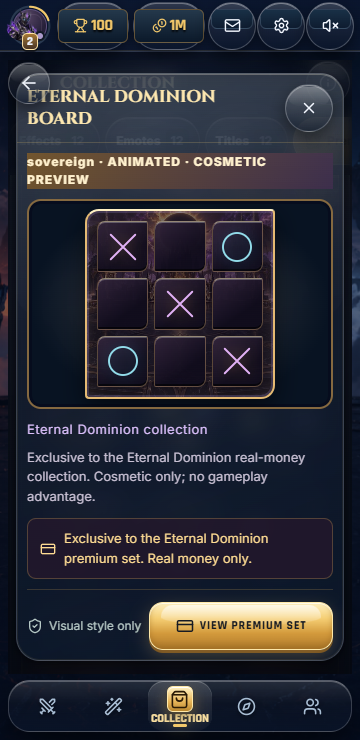
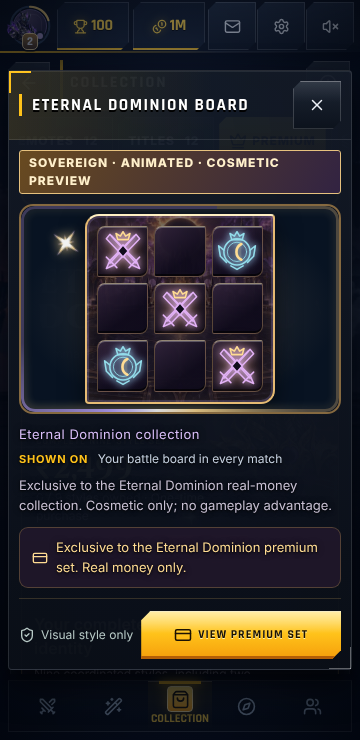
Polish Eternal Dominion premium offer
- Drop the sliding sheen from the baked Dominion motion and the banner/title
  light sweeps; keep glow, breathe and orbiting stars
- Put price and the single buy button in the hero, over the animated arena
- Replace the clipped avatar aura with a soft portrait glow
- Uppercase sovereign rarity badge; refresh Dominion screenshots

Claude-Session: https://claude.ai/code/session_01LuRdJKBZeeJak54UKqSAtq

diff --git a/src/components/CommercePanel.jsx b/src/components/CommercePanel.jsx
@@ -1,4 +1,5 @@
 "use client";
+import AnimatedCosmeticImage from "./AnimatedCosmeticImage";
 import { useEffect, useRef, useState } from "react";
 import {
   Coins,
@@ -314,12 +315,25 @@ export default function CommercePanel({
           {focus === "premium" && premiumProduct && (
             <section className={styles.sovereignOffer} aria-label="Eternal Dominion premium set" data-bundle-id="bundle-dominion">
               <div className={styles.sovereignHero}>
-                <img className={styles.sovereignBackdrop} src="/assets/collection/dominion/arena-poster.webp" alt="" />
+                <AnimatedCosmeticImage
+                  className={styles.sovereignBackdrop}
+                  cosmeticId="arena-collection-dominion"
+                  src="/assets/collection/dominion/arena-poster.webp"
+                  alt=""
+                />
                 <div className={styles.sovereignCopy}>
                   <span className={styles.sovereignEyebrow}><Crown size={14} /> SOVEREIGN · PREMIUM EXCLUSIVE</span>
                   <h3>Eternal<br />Dominion</h3>
                   <p>Command the eclipse. Wear the crown.</p>
                   <span className={styles.moneyOnly}><CreditCard size={13} /> REAL MONEY ONLY</span>
+                  {/* The offer itself sits in the hero: price and purchase without scrolling. */}
+                  <div className={styles.sovereignHeroBuy}>
+                    <div className={styles.sovereignPrice}><span>COMPLETE NINE-STYLE SET</span><strong>{price(premiumProduct)}</strong><small>{premiumComplete ? "All nine styles owned" : `${premiumOwned} / ${premiumItems.length} styles owned · One-time purchase`}</small></div>
+                    <GameButton disabled={premiumComplete || !data.checkoutEnabled || Boolean(busy)} onClick={() => payment(premiumProduct)}>
+                      {busy === premiumProduct.id ? <LoaderCircle className="spin" size={18} /> : premiumComplete ? <Check size={18} /> : !data.checkoutEnabled ? <LockKeyhole size={18} /> : <Crown size={18} />}
+                      {premiumComplete ? "Collection owned" : !data.checkoutEnabled ? "Checkout unavailable" : "Buy Eternal Dominion"}
+                    </GameButton>
+                  </div>
                 </div>
                 {premiumAvatar && <span className={styles.sovereignPortrait} aria-hidden="true"><CosmeticArt item={premiumAvatar} /></span>}
               </div>
@@ -336,13 +350,6 @@ export default function CommercePanel({
                       {ownedIds.includes(item.id) ? <Check className={styles.slotOwned} size={14} aria-label="Owned" /> : <Eye className={styles.slotOwned} size={13} aria-hidden="true" />}
                     </button>
                   ))}
-                </div>
-                <div className={styles.sovereignCheckout}>
-                  <div className={styles.sovereignPrice}><span>COMPLETE NINE-STYLE SET</span><strong>{price(premiumProduct)}</strong><small>{premiumComplete ? "All nine styles owned" : `${premiumOwned} / ${premiumItems.length} styles owned · One-time purchase`}</small></div>
-                  <GameButton disabled={premiumComplete || !data.checkoutEnabled || Boolean(busy)} onClick={() => payment(premiumProduct)}>
-                    {busy === premiumProduct.id ? <LoaderCircle className="spin" size={18} /> : premiumComplete ? <Check size={18} /> : !data.checkoutEnabled ? <LockKeyhole size={18} /> : <CreditCard size={18} />}
-                    {premiumComplete ? "Collection owned" : !data.checkoutEnabled ? "Checkout unavailable" : "Buy Eternal Dominion"}
-                  </GameButton>
                 </div>
                 <p className={styles.sovereignTerms}><ShieldCheck size={16} /><span>Cosmetics only. Equal powers and gameplay for every player. This set cannot be purchased with coins or earned through rewards.</span></p>
                 {premiumOwned > 0 && !premiumComplete && <p className={styles.small}>The full set price applies. Owned styles are retained; duplicates do not grant coins.</p>}

diff --git a/src/app/dominion-theme.css b/src/app/dominion-theme.css
@@ -118,11 +118,8 @@
   object-position: center;
 }
 .collection-theme-dominion.collection-banner-art::after {
-  background:
-    linear-gradient(90deg, #100c1cf0, #100c1c80 68%, #100c1c26),
-    linear-gradient(115deg, transparent 36%, #ffedbd22 49%, transparent 62%);
-  background-size: 100% 100%, 250% 100%;
-  animation: dominion-banner-light 8s ease-in-out infinite;
+  /* A still shade for legibility: collection light breathes, it never slides across. */
+  background: linear-gradient(90deg, #100c1cf0, #100c1c80 68%, #100c1c26);
 }
 .collection-theme-dominion .collection-banner-crest {
   border: 2px solid #e5ba73;
@@ -193,21 +190,19 @@
 @supports (background-clip: text) or (-webkit-background-clip: text) {
   .collection-theme-dominion.collection-title-art > strong,
   .collection-profile-title[data-cosmetic-theme="dominion"] {
-    background: linear-gradient(105deg, #ffdc93 20%, #fff9eb 36%, #cbb6ff 48%, #fff0c4 61%, #d7a958 80%);
-    background-size: 240% 100%;
+    /* Gilded lettering, still: no light slides across the title. */
+    background: linear-gradient(105deg, #ffdc93 10%, #fff9eb 40%, #cbb6ff 62%, #d7a958 92%);
     background-clip: text;
     -webkit-background-clip: text;
     color: transparent !important;
-    animation: dominion-title-light 7s linear infinite;
+    filter: drop-shadow(0 0 6px #ffdc9340);
   }
 }
 
 @keyframes dominion-aura { 0%,100% { opacity: .65; scale: .96; } 50% { opacity: 1; scale: 1.04; } }
 @keyframes dominion-portrait { 0%,100% { translate: 0 0; } 50% { translate: 0 -3px; } }
 @keyframes dominion-landscape { from { scale: 1.03; } to { scale: 1.09; } }
-@keyframes dominion-banner-light { 0%,25% { background-position: 0 0, 120% 0; } 90%,100% { background-position: 0 0, -100% 0; } }
 @keyframes dominion-emote-light { 0%,100% { box-shadow: inset 0 1px 0 #fff3, 0 4px 0 #05040b, 0 0 12px #bba4ff16; } 50% { box-shadow: inset 0 1px 0 #fff5, 0 4px 0 #05040b, 0 0 20px #ffdc9338; } }
-@keyframes dominion-title-light { to { background-position: -240% 0; } }
 
 .reduce-motion .collection-theme-dominion,
 .reduce-motion .collection-theme-dominion *,

diff --git a/src/components/CommercePanel.module.css b/src/components/CommercePanel.module.css
@@ -684,3 +684,15 @@
   .sovereignTerms { padding:9px; font-size:11px; }
 }
 @media(prefers-reduced-motion:reduce) { .sovereignContents>button { transition:none; } }
+
+/* Hero offer: the price and purchase sit beside the title, above the fold. */
+.sovereignHeroBuy { display:flex; align-items:center; flex-wrap:wrap; gap:14px; margin-top:18px; }
+.sovereignHeroBuy .sovereignPrice strong { font-size:clamp(30px,3.6vw,42px); text-shadow:0 0 18px #ffdc9355, 0 2px 6px #000a; }
+.sovereignHeroBuy > button { min-height:48px; }
+/* The portrait glows from within the hero instead of a clipped ring around it. */
+.sovereignPortrait :global(.collection-avatar-aura) { display:none; }
+.sovereignPortrait::before { content:""; position:absolute; inset:12% 8% 4%; z-index:-1; border-radius:50%;
+  background:radial-gradient(closest-side,#bba4ff40,#ffdc931f 55%,transparent); animation:sovereignGlow 4s ease-in-out infinite; }
+@keyframes sovereignGlow { 50% { opacity:.6; scale:.95; } }
+:global(html.reduce-motion) .sovereignPortrait::before { animation:none; }
+@media (max-width:600px) { .sovereignHeroBuy { gap:10px; margin-top:14px; } .sovereignHeroBuy > button { width:100%; } }

diff --git a/src/components/CosmeticShop.module.css b/src/components/CosmeticShop.module.css
@@ -442,6 +442,7 @@
 }
 .previewRarity {
   display: inline-flex;
+  text-transform: uppercase;
   color: #c0c5fb;
   font-size: 12px;
   font-weight: 800;
@@ -1252,6 +1253,7 @@
 .cashOnlyLabel { color:#ddc39d; font-size:11px; line-height:1.4; text-align:center; }
 .card[data-rarity="sovereign"] { border-color:#d7b36e !important; box-shadow:inset 0 0 0 1px #bba4ff33,0 0 18px #be8e3c15; }
 .rarity[data-rarity="sovereign"],.previewRarity[data-rarity="sovereign"] { color:#fff0cb; background:linear-gradient(120deg,#684a20,#322342); border-color:#e6c17e; }
+.previewRarity[data-rarity="sovereign"] { padding:3px 9px; border:1px solid #e6c17e; border-radius:3px; }
 .dominionHero { min-height:200px; border-color:#d8b271 !important; background:#110e1c !important; }
 .dominionHero .heroBackground { opacity:.8; }
 .dominionHero .heroCopy { display:grid; grid-template-columns:minmax(0,1fr) auto; align-items:center; gap:8px 14px; width:78%; padding:18px 22px; }
